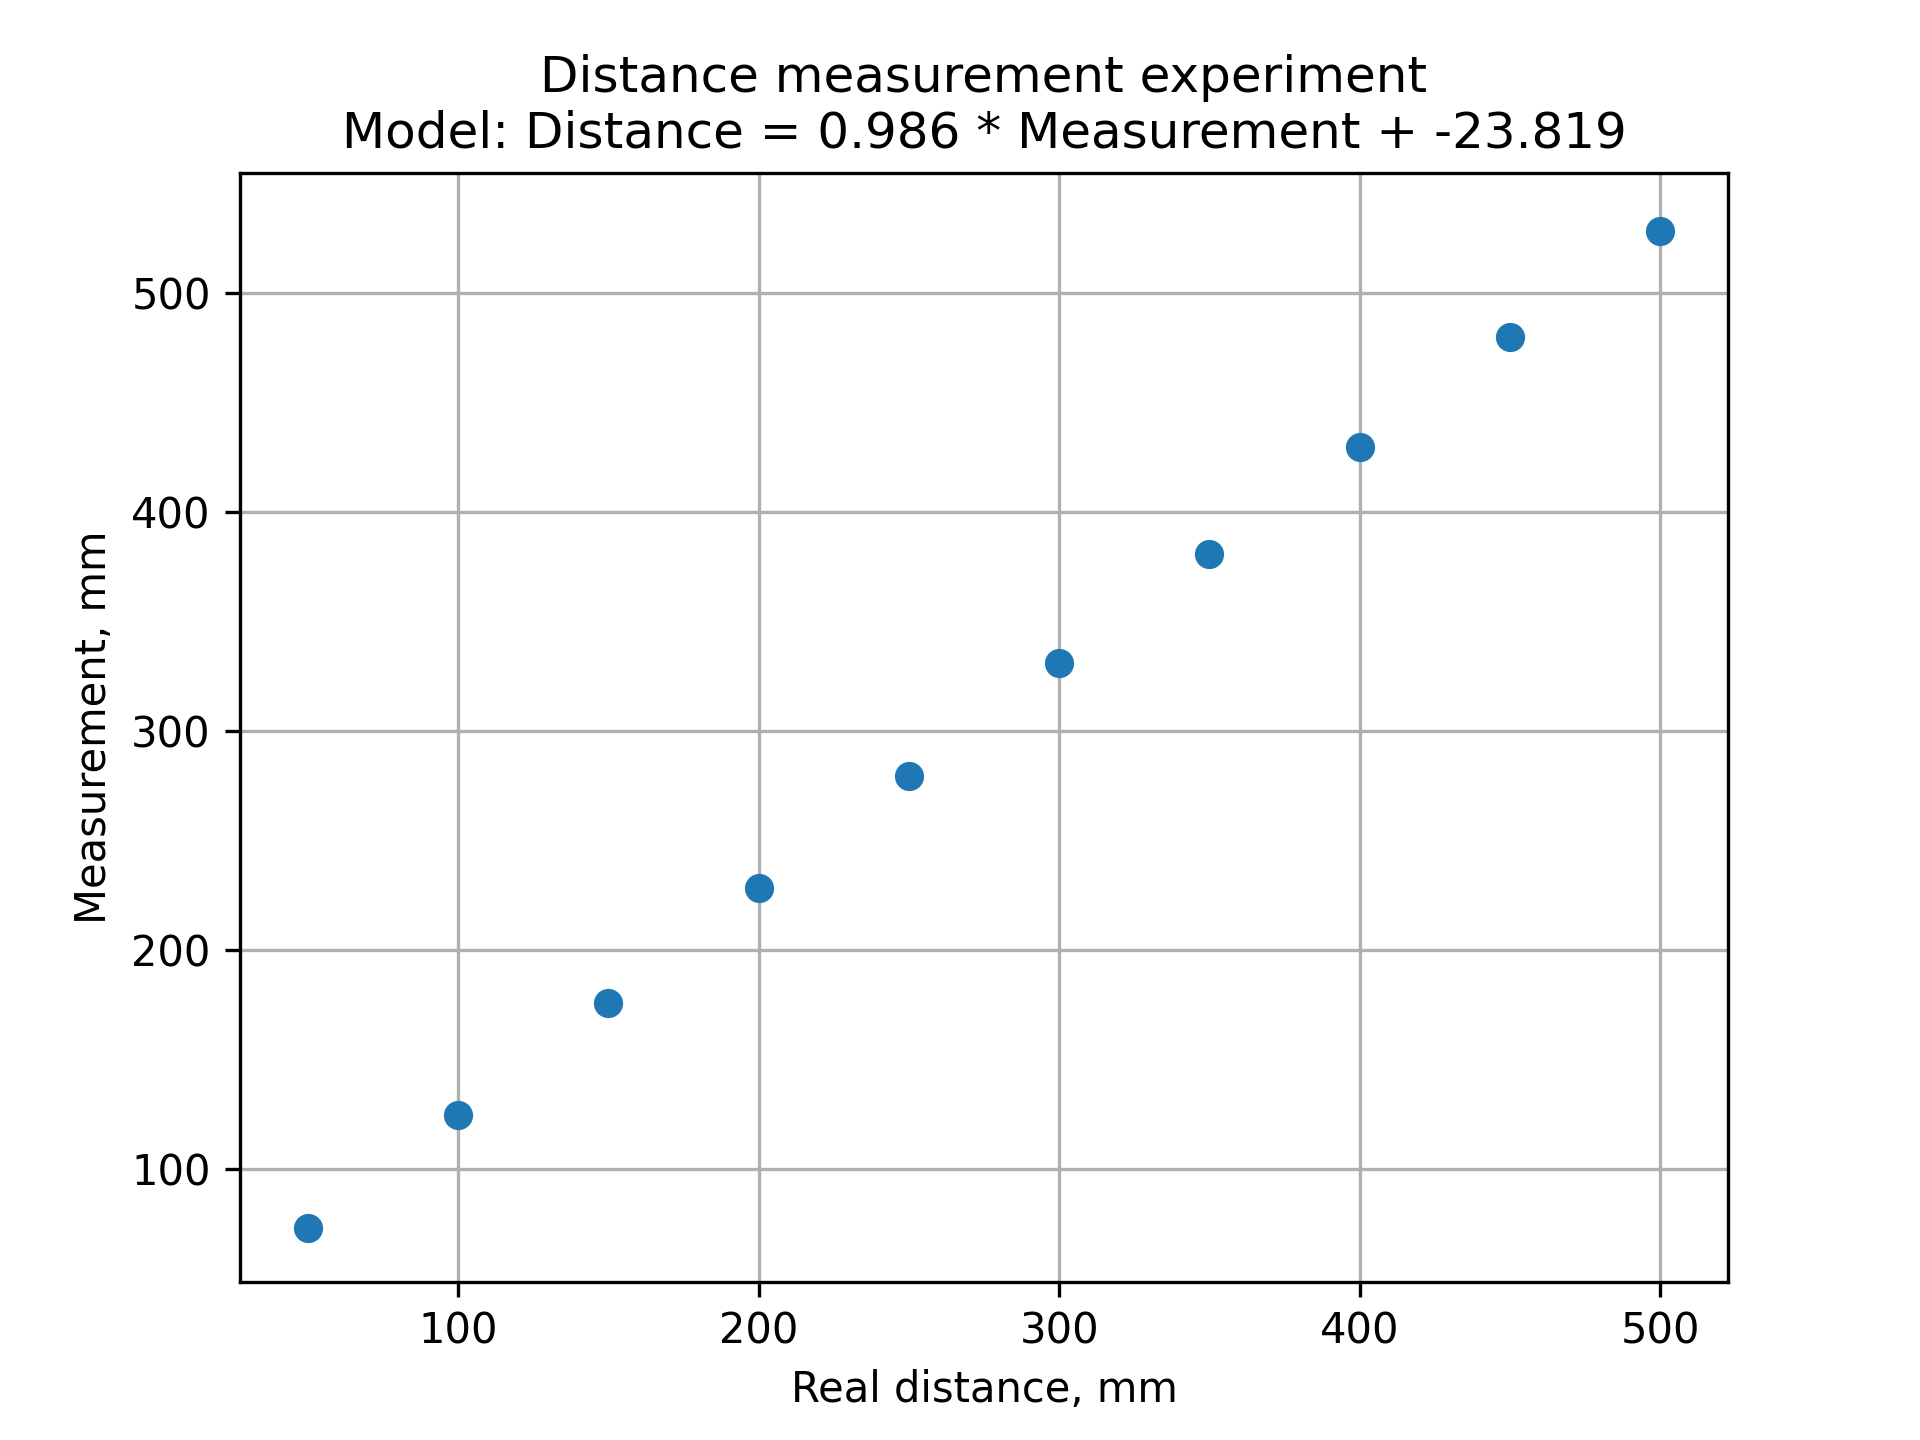
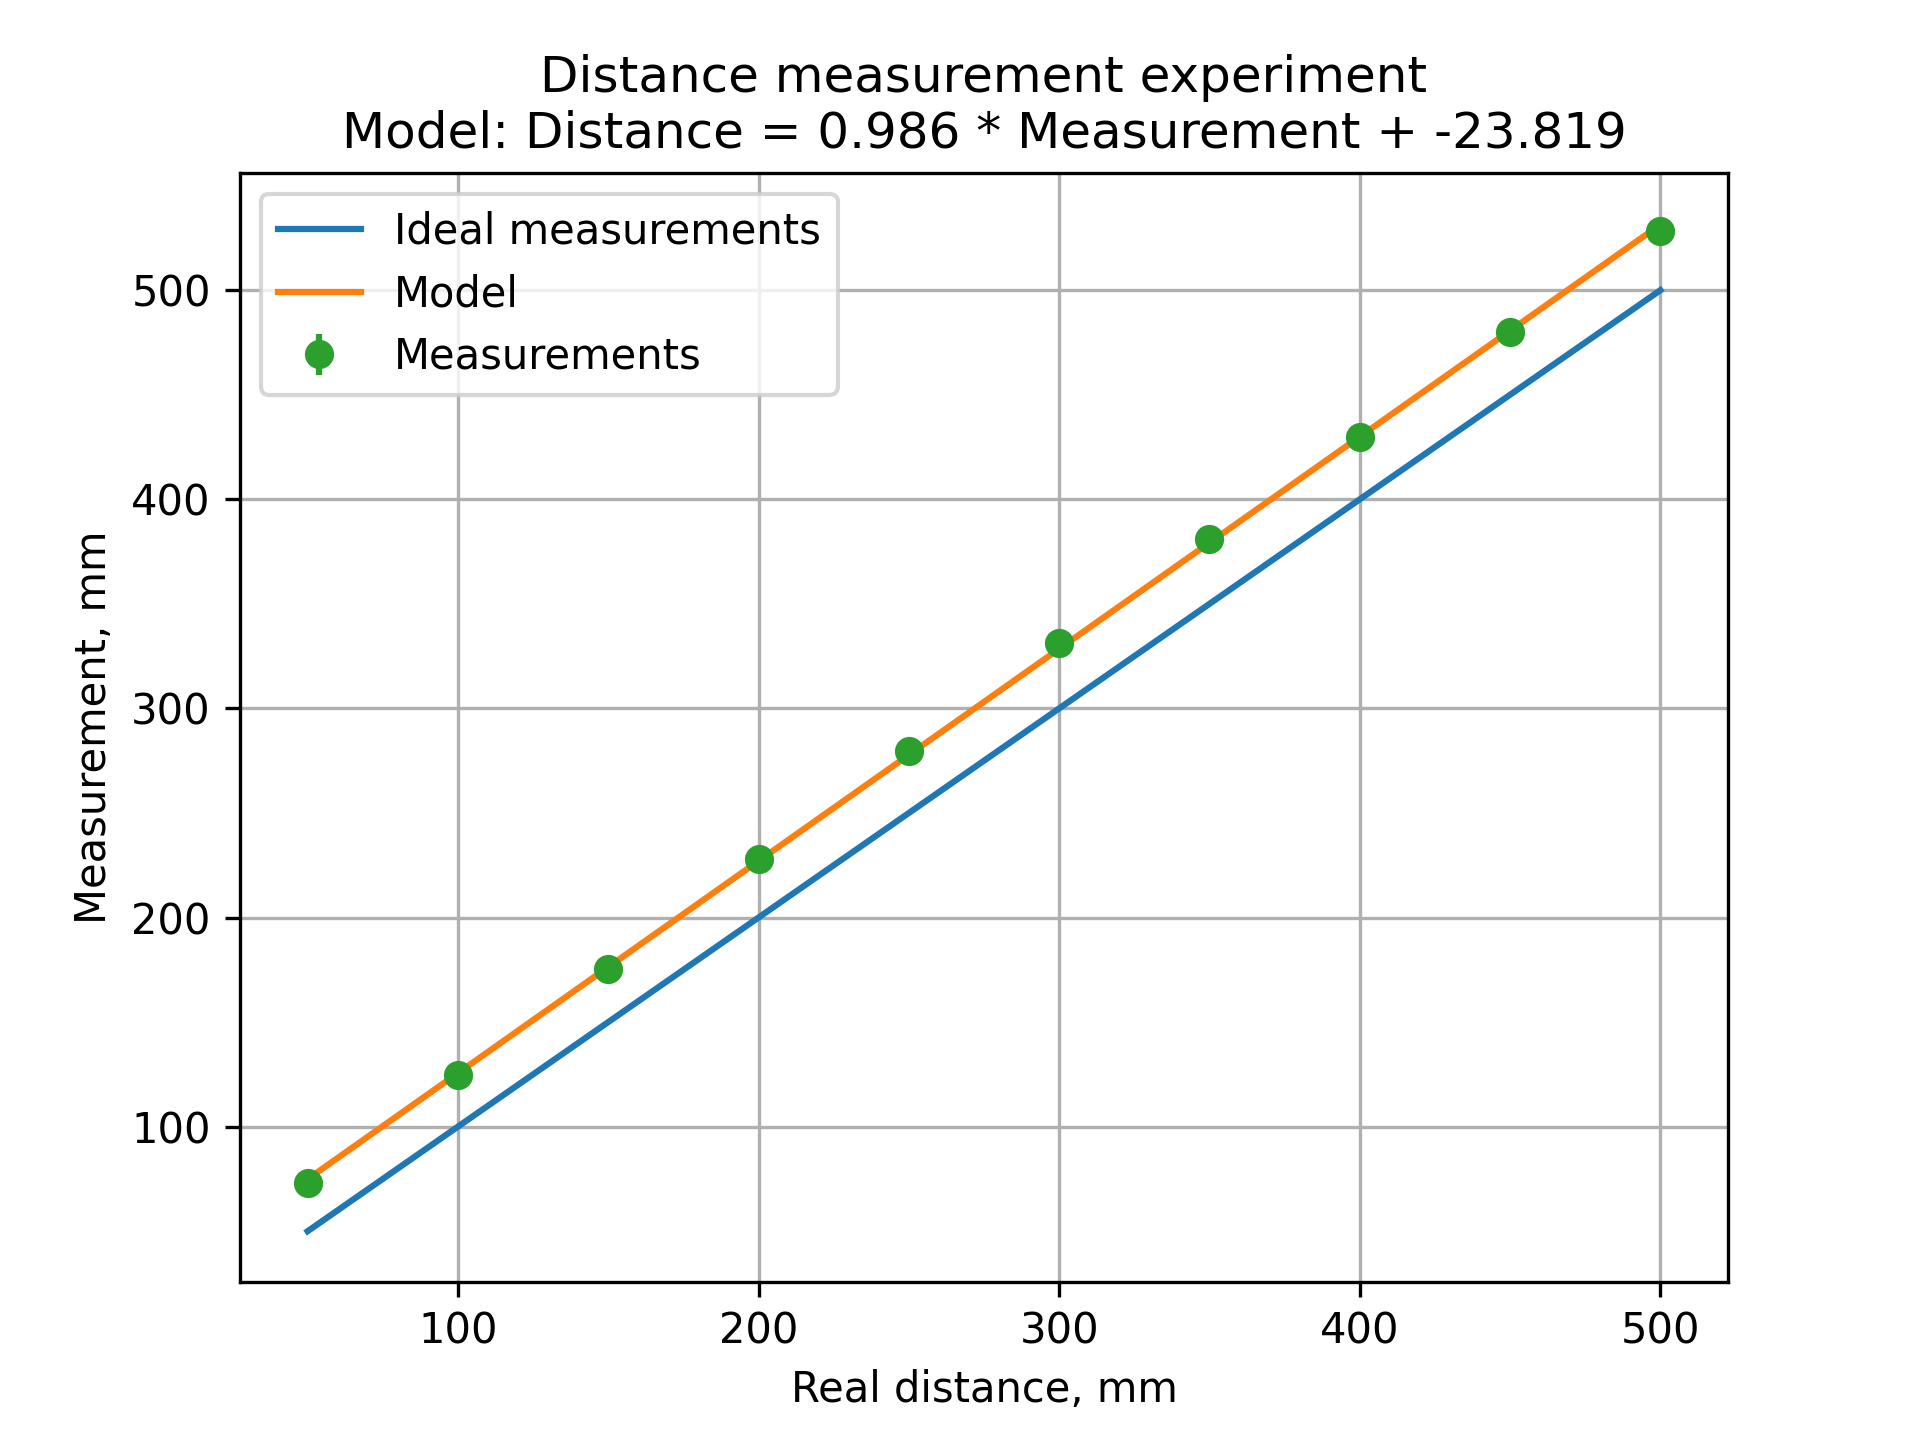
plt update

Changed region(s): [[0.0625, 0.125, 0.9062, 0.875], [0.0625, 0.625, 0.125, 0.6875], [0.0625, 0.4688, 0.125, 0.5312]]

diff --git a/python/experiments/vlx_distance_offset.py b/python/experiments/vlx_distance_offset.py
@@ -63,12 +63,21 @@ model.fit([[point] for point in data.mean_points], distances)
 print('MODEL_COEFFICIENTS:\n', *model.coef_, model.intercept_)
 
 
+plt.errorbar(distances, distances,
+             linestyle='-')
+plt.errorbar(distances, [(dist - model.intercept_) / model.coef_[0] for dist in distances],
+             linestyle='-')
 plt.errorbar(distances, data.mean_points, data.std_points,
              linestyle='None', marker='o')
 plt.title(
     'Distance measurement experiment\n' +
     f'Model: Distance = {model.coef_[0]:.3f} * Measurement + {model.intercept_:.3f}'
 )
+plt.legend([
+    'Ideal measurements',
+    'Model',
+    'Measurements',
+])
 plt.xlabel('Real distance, mm')
 plt.ylabel('Measurement, mm')
 plt.grid()

diff --git a/README.md b/README.md
@@ -3,6 +3,7 @@ Skoltech Project
 
 ## Python
 Create virtual environment in project folder
+
 This solves problems with imports
 
 ```
